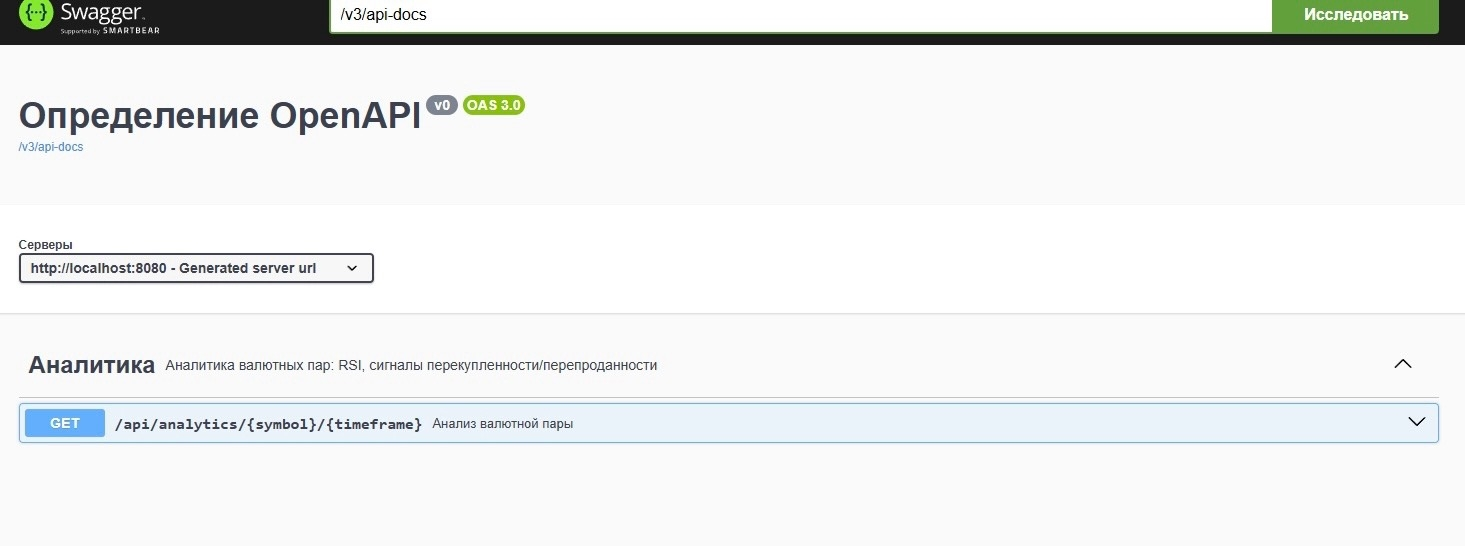
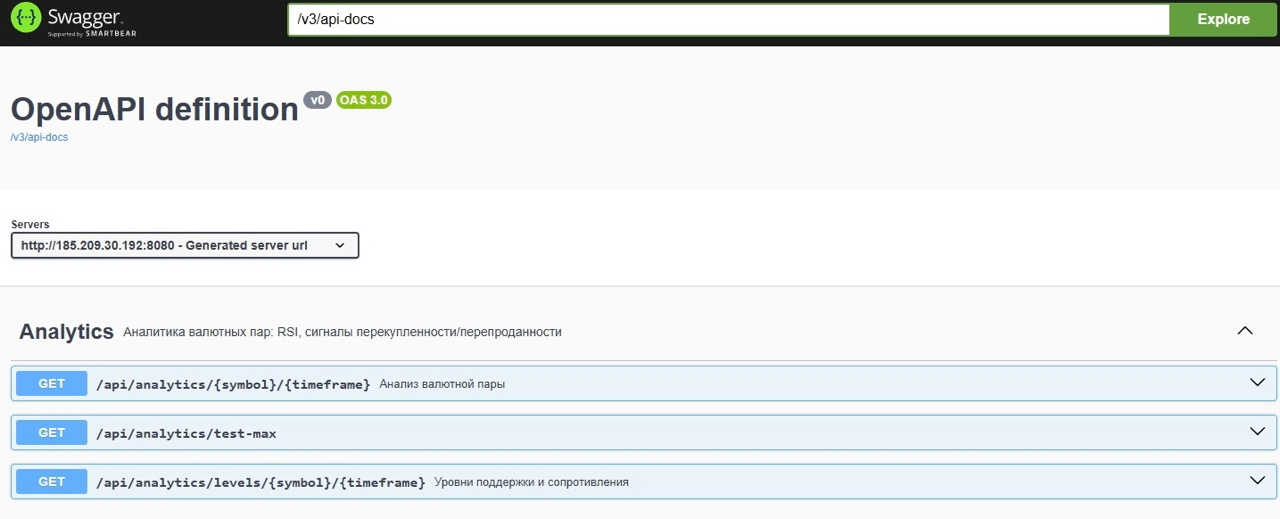
docs: fix architecture description

diff --git a/src/main/java/com/ekaterina/forex/forex_analyzer/service/AlertService.java b/src/main/java/com/ekaterina/forex/forex_analyzer/service/AlertService.java
@@ -96,12 +96,12 @@ public class AlertService {
 
         // Формируем красивое сообщение с указанием конкретного пробитого уровня
         String message = String.format(
-                "🚨 **ВНИМАНИЕ!** 🚨\n\n" +
+                "🚨 ВНИМАНИЕ! 🚨\n\n" +
                         "%s %s на %s\n" +
-                        "📉 RSI опустился %s %d и сейчас равен: **%.1f**\n" +
+                        "📉 RSI %s %d и сейчас равен: **%.1f**\n" +
                         "💵 Цена: %.5f\n\n" +
-                        "⚠ Возможна сильная реакция цены.\n" +
-                        "🤖 Forex Ana lyzer",
+
+                        "🤖 Forex Analyzer",
                 emoji, symbol, timeframe, action, level, rsi, price
         );
 

diff --git a/src/main/java/com/ekaterina/forex/forex_analyzer/service/AtrService.java b/src/main/java/com/ekaterina/forex/forex_analyzer/service/AtrService.java
@@ -8,9 +8,7 @@ import java.util.List;
 
 @Service
 public class AtrService {
-
     private final CandleRepository candleRepository;
-
     public AtrService(CandleRepository candleRepository) {
         this.candleRepository = candleRepository;
     }

diff --git a/README.md b/README.md
@@ -1,8 +1,10 @@
 # Forex Analyzer
 
-Spring Boot приложение для анализа валютных пар. Показывает RSI (индекс относительной силы), текущую цену и торговые сигналы перекупленности/перепроданности.
-
+Spring Boot приложение для анализа валютных пар. Показывает RSI (индекс относительной силы), текущую цену, уровни поддержки/сопротивления, торговые сигналы перекупленности/перепроданности и историческую волатильность (ATR).
 Данные поступают в реальном времени из **MetaTrader 5** через **ZeroMQ**.
+
+Отправка сигналов в реальном времени осуществляется в канал в MAX
+[Forex Analyzer](https://max.ru/https://max.ru/join/zJL-LeCnX38NrkO3CoDuytA00-UbabHpsWJH0Z_hOFw).
 
 ## Стек технологий
 
@@ -11,7 +13,7 @@ Spring Boot приложение для анализа валютных пар. 
 - **PostgreSQL** (в облаке Supabase)
 - **ta4j 0.15** — библиотека технического анализа
 - **ZeroMQ (jeromq)** — приём тиков и свечей из MT5
-- **Swagger / OpenAPI 3** — автодокументация API
+- **[Swagger / OpenAPI 3](http://185.209.30.192:8080/swagger-ui.html)** — интерактивная автодокументация API (Кликните для перехода)
 - **Maven**
 
 ## Архитектура
@@ -24,12 +26,16 @@ MT5 (VPS) → MQL5-советник → ZeroMQ → Java (Spring Boot) → Supaba
                                      Android / браузер
 ```
 
-- **MQL5-советник** — отправляет тики и свечи по трём парам (EURUSD, GBPUSD, USDJPY) на двух таймфреймах (D1, H4).
+- **`MQL5-советник`** — отправляет тики и свечи по трём парам (EURUSD, GBPUSD, USDJPY) на таймфреймах (D1, H4, H1). Дополнительно транслирует значения RSI в реальном времени для мгновенного срабатывания алертов.
 - **`MT5CandleSubscriber`** — принимает свечи через ZeroMQ, сохраняет в базу.
-- **`MT5TickSubscriber`** — принимает тики.
-- **`AnalyticsService`** — считает RSI через ta4j.
+- **`MT5TickSubscriber`** — принимает тики в реальном времени. 
 - **`AnalyticsController`** — отдаёт REST API.
-- **PostgreSQL (Supabase)** — хранение истории свечей.
+- **`PostgreSQL (Supabase)`** — хранение истории свечей (2500+ записей).
+- **`AnalyticsService`** — рассчитывает тренд (на основе MA20/MA50), находит уровни поддержки и сопротивления. Использует RSI из кэша (real-time) или `ta4j` как резервный расчет, если данных от MT5 еще нет.
+- **`AtrService`** — рассчитывает **Средний дневной ATR (за 22 дня)**, а также минимальный и максимальный ATR за этот период.
+- **`VolatilityService`** — рассчитывает историческую волатильность по годам и средний месячный ATR для каждого года. 
+- **`AlertService & CandleCloseService`** — отправляют уведомления в мессенджер MAX (каскадные RSI-сигналы и алерты о смене тренда только в момент закрытия свечи).
+ 
 
 ## Поддерживаемые пары и таймфреймы
 
@@ -44,25 +50,14 @@ MT5 (VPS) → MQL5-советник → ZeroMQ → Java (Spring Boot) → Supaba
 | Метод | URL | Описание |
 |-------|-----|----------|
 | GET | `/api/analytics/{symbol}/{timeframe}` | RSI + текущая цена + сигнал |
+| GET | `/api/analytics/levels/{symbol}/{timeframe} ` | Уровни поддержки и сопротивления |
+| GET | `/api/analytics/atr/history/{symbol}` | Статистика волатильности (ATR) по годам |
 
 **Примеры вызова:**
 - `GET /api/analytics/EURUSD/D1`
-- `GET /api/analytics/GBPUSD/H4`
-- `GET /api/analytics/USDJPY/D1`
+- `GET /api/analytics/levels/EURUSD/H4`
+- `GET /api/analytics/atr/history/EURUSD`
 
-## Пример ответа
-
-```json
-{
-  "pair": "GBPUSD",
-  "timeframe": "D1",
-  "candlesCount": 499,
-  "currentPrice": 1.32365,
-  "rsi": 42.66,
-  "signal": "НЕЙТРАЛЬНО",
-  "lastCandleTime": "2026-10-09T00:00"
-}
-```
 ## Live Demo
 
 Приложение работает в реальном времени на VPS и доступно из интернета. Можно открыть в браузере или с телефона — без установки.
@@ -92,14 +87,13 @@ http://185.209.30.192:8080/api/analytics/GBPUSD/D1
   "lastCandleTime": "2026-10-09T00:00"
 }
 ```
-
 ### Что работает «под капотом»
 
 - **MT5 на VPS** (Москва) — источник данных, работает 24/7.
 - **MQL5-советник** — отправляет тики и свечи через ZeroMQ.
 - **Java-бэкенд** — запущен как Windows-служба, автоматически стартует при перезагрузке сервера.
 - **Supabase** — облачное хранилище свечей.
-- **Firebase Cloud Messaging** — готов к отправке push-уведомлений.
+- **Интеграция с MAX** — отправка уведомлений о сигналах RSI и смене трендов.
 
 > **Примечание:** это демо-сервер. Если ссылки не открываются — возможно, идёт перезапуск или обновление. Напишите мне, и я проверю.
 
@@ -113,6 +107,10 @@ http://185.209.30.192:8080/api/analytics/GBPUSD/D1
 
 ### Данные в Supabase
 ![Таблица в Supabase](images/supabase-table.jpg)
+
+### Уведомления в канале MAX
+**Пример того, как выглядят сигналы, приходящие в наш [канал MAX](https://max.ru/https://max.ru/join/zJL-LeCnX38NrkO3CoDuytA00-UbabHpsWJH0Z_hOFw).**
+![Уведомления в MAX](images/max.jpg)
 
 ## Как запустить
 
@@ -135,18 +133,21 @@ http://185.209.30.192:8080/api/analytics/GBPUSD/D1
 ## Что реализовано
 
 - ✅ Приём тиков из MT5 через ZeroMQ
-- ✅ Приём свечей (D1, H4) из MT5 через ZeroMQ
-- ✅ Хранение 2500+ свечей в PostgreSQL (Supabase)
+- ✅ Приём свечей (D1, H4, H1) из MT5 через ZeroMQ
+- ✅ Хранение 5900+ свечей в PostgreSQL (Supabase)
 - ✅ Поддержка трёх валютных пар: EURUSD, GBPUSD, USDJPY
 - ✅ Расчёт RSI через ta4j
 - ✅ REST API с автодокументацией Swagger
 - ✅ Поддержка кириллицы в JSON-ответах (UTF-8)
 - ✅ Запуск как Windows-служба на VPS
+- ✅ Определение тренда (MA20/MA50) и уровней поддержки/сопротивления
+- ✅ Расчёт ATR за 22 дня и исторического ATR по годам
+- ✅ Отправка каскадных RSI-сигналов и алертов о смене тренда в MAX
 
 ## Планы развития
 
 - [ ] Push-уведомления (Firebase / MAX-бот)
-- [ ] Уровни поддержки и сопротивления
+- [x] Уровни поддержки и сопротивления
 - [ ] Статистика зон RSI (средняя просадка, длительность)
-- [ ] Краткосрочный/среднесрочный/долгосрочный тренд (MA20/MA50/MA200)
+- [x] Краткосрочный/среднесрочный/долгосрочный тренд (MA20/MA50/MA200)
 - [ ] Мобильное приложение (Android)
